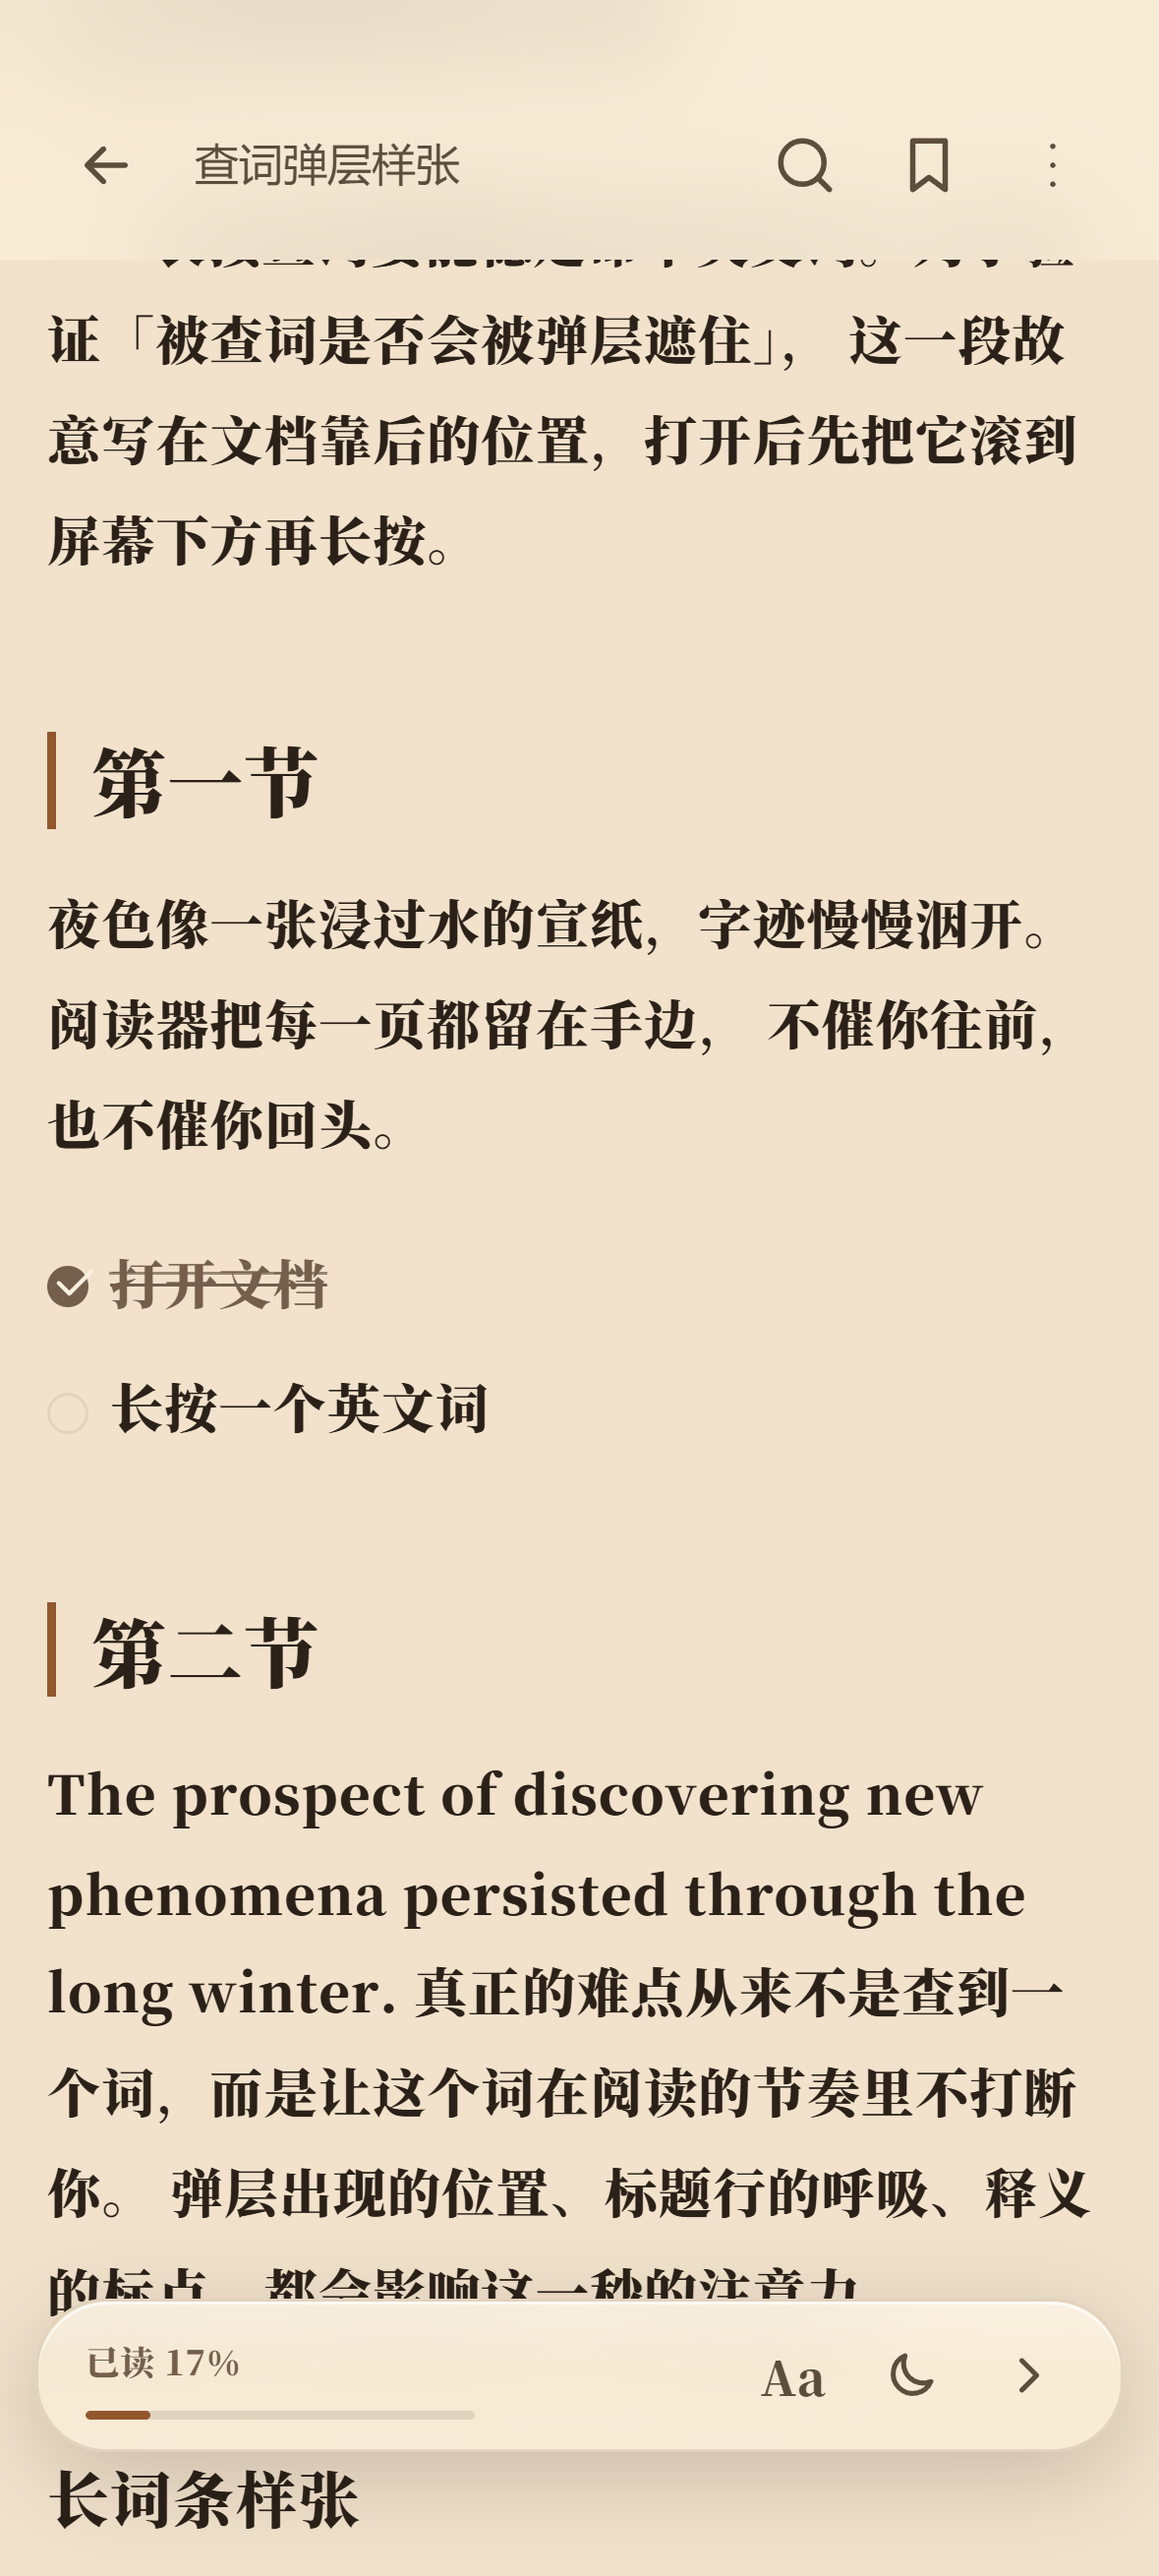
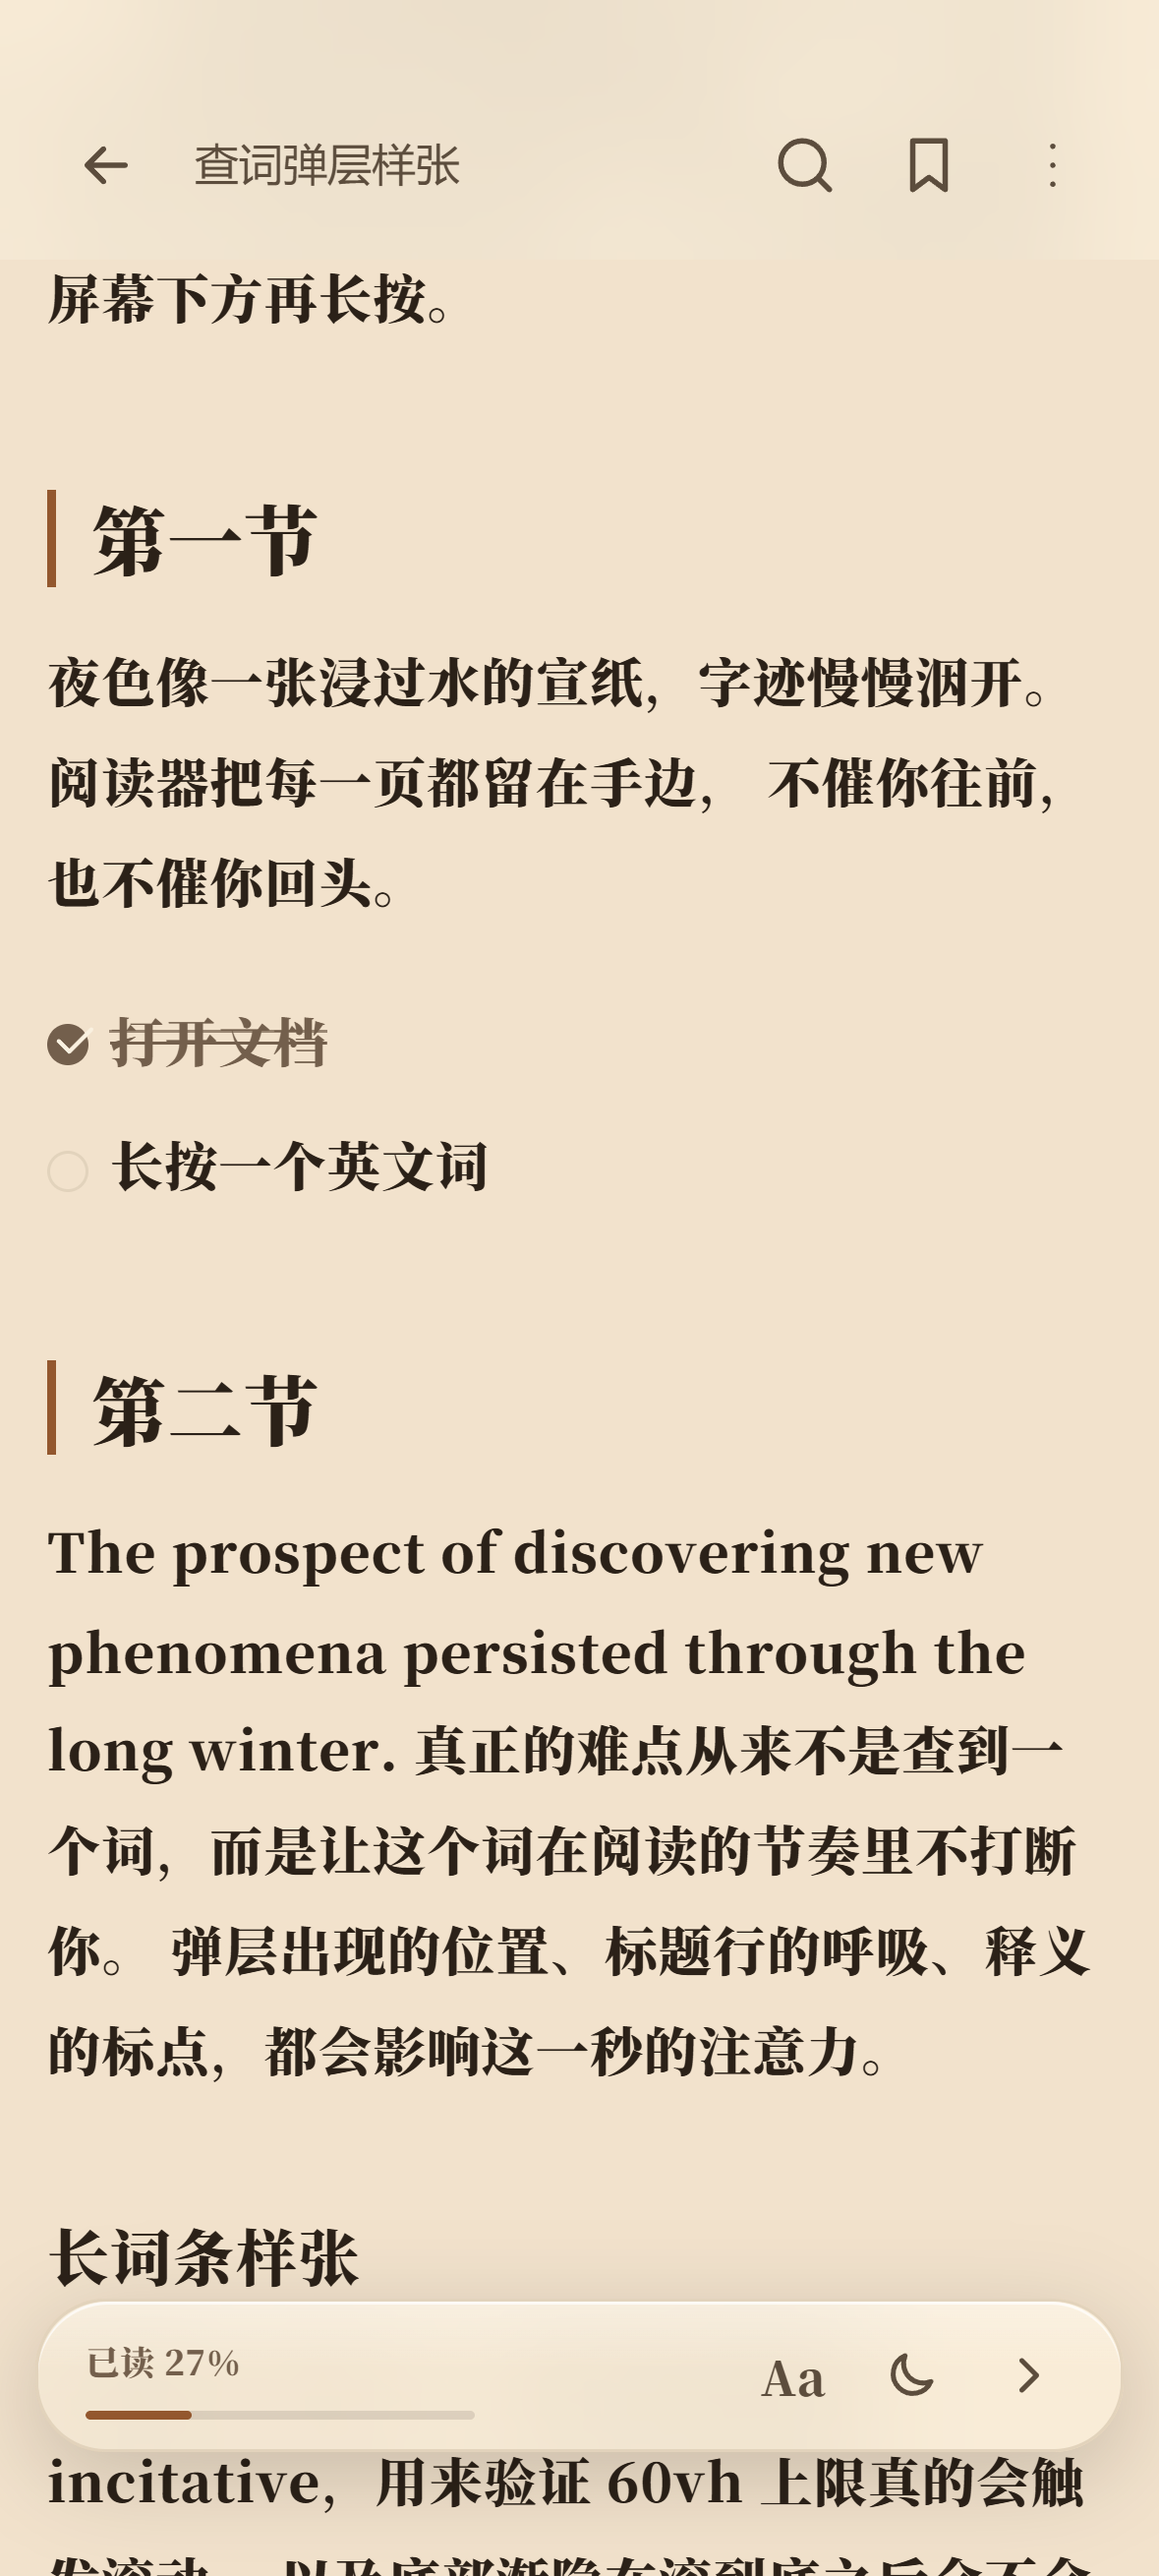
fix(lookup#6): 弹层会盖住被查词时，把正文滚到词可见
修前：长按屏幕下方的词时，弹层直接盖在词上（word.bottom 620 >
panel.top 524），用户看不到自己查的是哪个词。

改动：
- `revealWordAbovePanel()`：只在「词会被挡住」时才滚，且只滚到
  「词完整可见 + 上方留 12px 空隙」为止 —— 不居中、不强制回滚
- 锚点矩形来源分两条真实路径，都不可靠时宁可不滚：
    长按：`rectAt()` 用命中的文本节点 + 词偏移算整词 Range 矩形
    工具条「查词」：由 selection.ts 在弹工具条时算好的 rect 传下来
      （点按钮那一刻选区已收起，事后从 selection 取是取不到的）
- 顺带把 `lookupWord` 签名统一为 (article, word, wordRect?, hooks?)，
  ViewDeps.lookupWord 增加可选 rect，reader/main/selection 三处由类型检查逼着改
- 关闭后不回滚：滚动位置本身会正常写入进度，不存在错位

打包产物断言：
  被查词在弹层上方可见（word.bottom 538 < panel.top 550）✓
  为露出词而下滚（scrollY 148 → 230，正好 620-550+12=82）✓
  点遮罩可关闭 ✓ / 关闭后词仍在视口内 ✓
  落库进度 27% == 按滚动位置算出的 27% ✓（读 docs 表的 doc.progress.percent，
  不是臆造的独立表；第一版断言读错了表名，stored=null 会变成假绿，已修）

全量门禁：615 个单测通过，vite build 通过。

diff --git a/web/src/views/lookup.ts b/web/src/views/lookup.ts
@@ -25,8 +25,32 @@ const MOVE_TOLERANCE_PX = 10;
 /** 库外词提示的停留时间。 */
 const MISS_HINT_MS = 2000;
 
-/** 卡片根节点的选择器（卡片挂在正文里，手势要能识别出「这是卡片不是正文」）。 */
+/** 查词卡片根节点选择器（手势要能识别「这是卡片不是正文」）。 */
 const CARD_SELECTOR = '[data-testid="lookup-card"]';
+
+/** 词与弹层上沿之间至少留出的空隙（px）：贴着边看不清上下文。 */
+const WORD_MARGIN_PX = 12;
+
+/**
+ * 把被查的词挪到弹层上方的可见区（lookup #6）。
+ *
+ * 只在「词会被挡住」时才滚，且只保证「词完整可见」为止 —— 不做居中对齐，
+ * 也不在关闭后回滚：阅读位置变了就是变了，用户能接受；但绝不能把
+ * 阅读进度写错（进度是 scrollTop / 文档高，滚动本身就同步，不需要额外处理）。
+ */
+function revealWordAbovePanel(article: HTMLElement, panel: HTMLElement, wordRect: DOMRect): void {
+  const panelTop = panel.getBoundingClientRect().top;
+  const limit = panelTop - WORD_MARGIN_PX;
+  if (wordRect.bottom <= limit && wordRect.top >= 0) return;
+  // 词在弹层上方还差多少；负数表示需要往下滚（词被顶到屏幕上方之外）
+  const delta = wordRect.bottom > limit
+    ? wordRect.bottom - limit
+    : wordRect.top - WORD_MARGIN_PX;
+  if (Math.abs(delta) < 2) return;
+  if (!article.isConnected) return;
+  // 用瞬时滚动：弹层刚出现，动画期间做平滑滚动会跟入场动画打架
+  window.scrollBy({ top: delta, behavior: 'auto' });
+}
 
 /** 查词卡片的动作钩子（由 main 注入：生词本 + 历史）。 */
 export interface LookupHooks {
@@ -64,11 +88,17 @@ export function onLookupVisibility(listener: (open: boolean) => void): void {
 }
 
 /** 把节点挂到正文里；正文被重建时卡片随旧节点一起消失，由路由层的浮层同步收尾。 */
-function mount(article: HTMLElement, node: HTMLElement): void {
+function mount(article: HTMLElement, node: HTMLElement, wordRect: DOMRect | null = null): void {
   closeLookupCard();
   article.append(node);
   activeCard = node;
   visibilityListener?.(true);
+  if (wordRect !== null) {
+    const panel = node.querySelector<HTMLElement>('.lookup-panel');
+    // 弹层是刚挂上的同步节点，getBoundingClientRect 会强制一次布局 ——
+    // 一次布局换「词不被挡住」，值得。命中不到面板（提示类节点）就不做让位。
+    if (panel !== null) revealWordAbovePanel(article, panel, wordRect);
+  }
 }
 
 /** 释义卡片。字段严格对应 DictEntry，不多不少。 */
@@ -315,6 +345,16 @@ function textPositionAt(x: number, y: number): { node: Text; offset: number } | 
   return null;
 }
 
+/**
+ * 被查词在屏幕上的矩形（lookup #6 用）。
+ *
+ * 长按路径可以直接拿到按下点；工具条路径拿到的是选区矩形。
+ * 两者都算「用户此刻看着的那个词」，弹层不许把它盖住。
+ */
+interface WordAnchor {
+  readonly rect: DOMRect;
+}
+
 /** 在坐标处取词并查。取不到合法英文词就完全静默。 */
 function triggerAt(article: HTMLElement, x: number, y: number): void {
   if (!article.isConnected) return;
@@ -328,19 +368,50 @@ function triggerAt(article: HTMLElement, x: number, y: number): void {
     (position.offset > 0 ? wordAt(text, position.offset - 1) : null);
   if (word === null || word.length === 0) return;
 
-  void performLookup(article, word);
+  void performLookup(article, word, rectAt(position, word));
 }
 
-/** 工具条「查词」入口：对给定词查询并渲染卡片（E2 起长按不再自动弹卡）。 */
-export function lookupWord(article: HTMLElement, word: string, nextHooks: LookupHooks | null = null): void {
+/** 命中的词在文本节点里的矩形（取整词范围，避免只拿到一个字符的宽度）。 */
+function rectAt(position: { node: Text; offset: number }, word: string): DOMRect | null {
+  const text = position.node.data;
+  const at = text.indexOf(word, Math.max(0, position.offset - word.length));
+  const start = at >= 0 ? at : Math.max(0, position.offset);
+  const range = document.createRange();
+  const safeStart = Math.min(start, Math.max(0, text.length - 1));
+  const safeEnd = Math.min(text.length, safeStart + word.length);
+  try {
+    range.setStart(position.node, safeStart);
+    range.setEnd(position.node, safeEnd);
+    return range.getBoundingClientRect();
+  } catch {
+    return null;
+  }
+}
+
+/**
+ * 工具条「查词」入口：对给定词查询并渲染卡片（E2 起长按不再自动弹卡）。
+ *
+ * `wordRect` 由工具条按钮传入（弹工具条时算好的选区矩形）——
+ * 点按钮那一刻选区已被收起，事后再从 selection 取是取不到的。
+ */
+export function lookupWord(
+  article: HTMLElement,
+  word: string,
+  wordRect: DOMRect | null = null,
+  nextHooks: LookupHooks | null = null,
+): void {
   const cleaned = word.trim().replace(/\s+/g, ' ');
   if (cleaned.length === 0 || cleaned.length > 40) return;
   hooks = nextHooks;
-  void performLookup(article, cleaned);
+  void performLookup(article, cleaned, wordRect);
 }
 
 /** 查词并渲染。查词失败/查不到都不抛错，绝不让长按把阅读页搞崩。 */
-async function performLookup(article: HTMLElement, word: string): Promise<void> {
+async function performLookup(
+  article: HTMLElement,
+  word: string,
+  wordRect: DOMRect | null = null,
+): Promise<void> {
   const token = ++requestToken;
   let result: LookupResult;
   let failed = false;
@@ -361,7 +432,7 @@ async function performLookup(article: HTMLElement, word: string): Promise<void> 
 
   if (result.hit) {
     hooks?.onRecord(word);
-    mount(article, renderCard(result, word, article, hooks));
+    mount(article, renderCard(result, word, article, hooks), wordRect);
   } else {
     mountMissHint(article, word);
   }

diff --git a/web/src/views/selection.ts b/web/src/views/selection.ts
@@ -35,8 +35,15 @@ export interface SelectionHandlers {
   readonly onMark: (parts: readonly SelectionPart[], type: MarkType, color: HighlightColor | null) => void;
   /** 新建批注：先记下选区，由 main 打开备注面板。 */
   readonly onNote: (parts: readonly SelectionPart[]) => void;
-  /** 查词（工具条按钮）；lookupEnabled 为 false 时不显示按钮。 */
-  readonly onLookup: (word: string) => void;
+  /**
+   * 查词（工具条按钮）；lookupEnabled 为 false 时不显示按钮。
+   *
+   * 第二个参数是「被查词在屏幕上的矩形」：查词弹层要用它判断自己的
+   * 出现会不会把词盖住，被盖住就把正文滚一下（lookup #6）。
+   * 这里传的是弹工具条时算好的 rect —— 点按钮时选区已经被收起，
+   * 事后再从 selection 取是取不到的。
+   */
+  readonly onLookup: (word: string, rect: DOMRect) => void;
   /** 复制选中文字。 */
   readonly onCopy: (text: string) => void;
   /** 点已有标注（正文命中）。 */
@@ -236,7 +243,7 @@ function showSelectionToolbar(parts: readonly SelectionPart[], rect: DOMRect, ha
       button('查词', 'mark-lookup', icon('search'), () => {
         const word = firstWord(text);
         hideSelectionToolbar();
-        if (word !== null) handlers.onLookup(word);
+        if (word !== null) handlers.onLookup(word, rect);
       }),
     );
   }

diff --git a/web/src/views/app.ts b/web/src/views/app.ts
@@ -61,8 +61,13 @@ export interface ViewDeps {
   openMarks: () => void;
   /** 复制文本（剪贴板由 main 统一处理与提示）。 */
   copyText: (text: string) => void;
-  /** 查词（释义卡片由 lookup 卡片渲染）。 */
-  lookupWord: (word: string) => void;
+  /**
+   * 查词（释义卡片由 lookup 卡片渲染）。
+   *
+   * 第二个参数是「被查词在屏幕上的矩形」，用于弹层出现时判断是否会盖住词
+   * （lookup #6 的让位滚动）。没有可信矩形时传 null，表示不做让位。
+   */
+  lookupWord: (word: string, rect?: DOMRect | null) => void;
   /** 是否在等待「失效标注重新挂载」。 */
   isReanchorPending: () => boolean;
   /** 用当前选区重新挂载失效标注。 */

diff --git a/web/src/main.ts b/web/src/main.ts
@@ -711,10 +711,10 @@ async function bootstrap(): Promise<void> {
     });
   }
 
-  function lookupWord(word: string): void {
+  function lookupWord(word: string, rect: DOMRect | null = null): void {
     const article = root.querySelector<HTMLElement>('[data-testid="article"]');
     if (article === null) return;
-    lookupWordInArticle(article, word, {
+    lookupWordInArticle(article, word, rect, {
       isSaved: (candidate) => hasWord(store.getState().words, candidate),
       onToggleWord: (entry) => addOrRemoveWord(entry),
       onRecord: (candidate) => recordLookup(candidate),

diff --git a/web/src/views/reader.ts b/web/src/views/reader.ts
@@ -396,7 +396,7 @@ export function createReaderPage(initial: State, deps: ViewDeps): PageView {
       blockTexts: () => deps.getState().render?.blockTexts ?? null,
       onMark: (parts, type, color) => deps.addSelectionMark(parts, type, color),
       onNote: (parts) => deps.openNoteForSelection(parts),
-      onLookup: (word) => deps.lookupWord(word),
+      onLookup: (word, rect) => deps.lookupWord(word, rect),
       onCopy: (text) => deps.copyText(text),
       onMarkTap: (markId, rect) => {
         const mark = deps.getState().marks.find((m) => m.id === markId);
